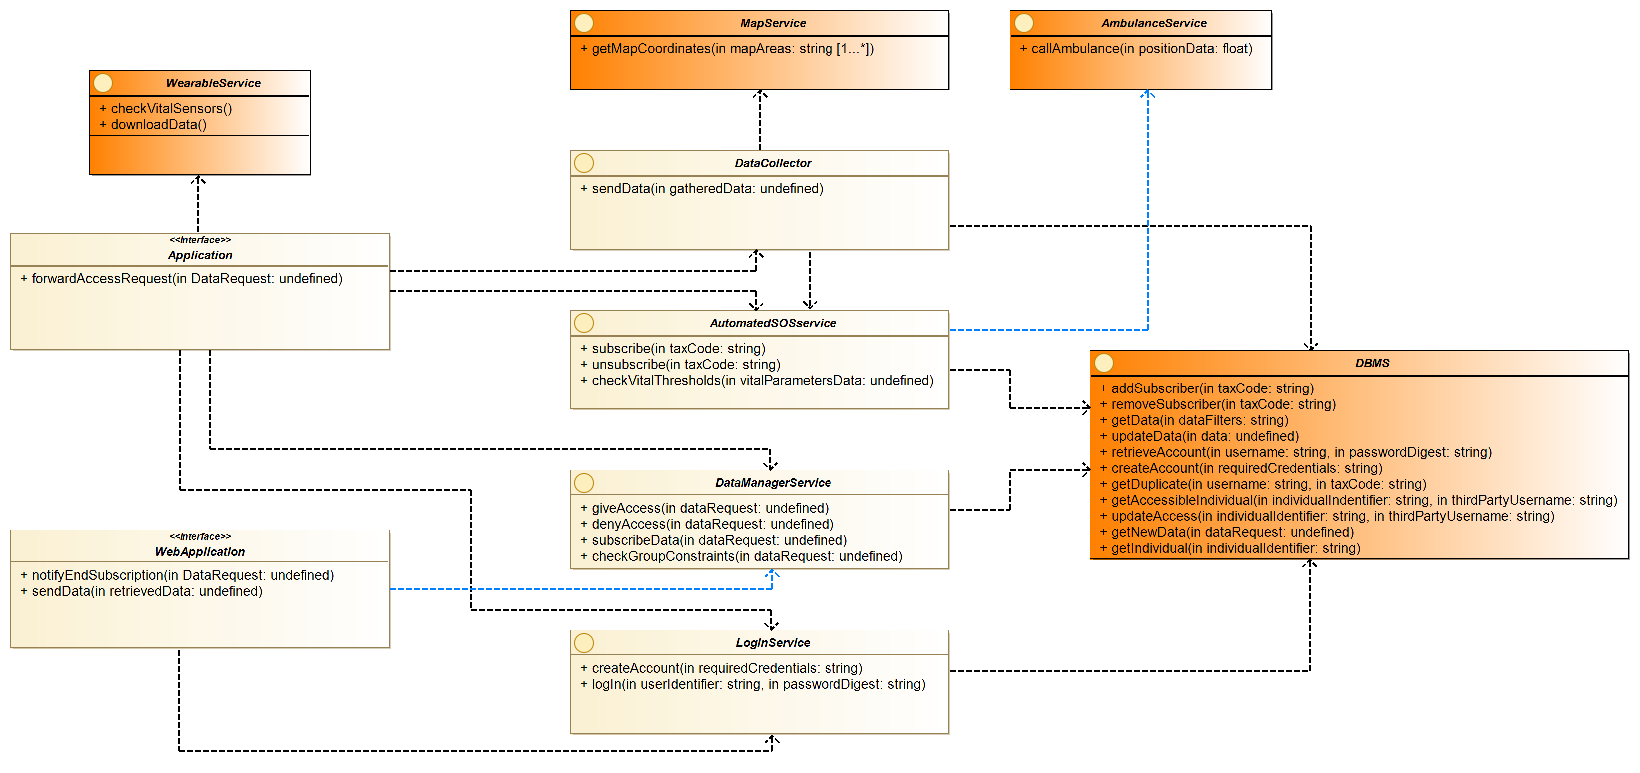
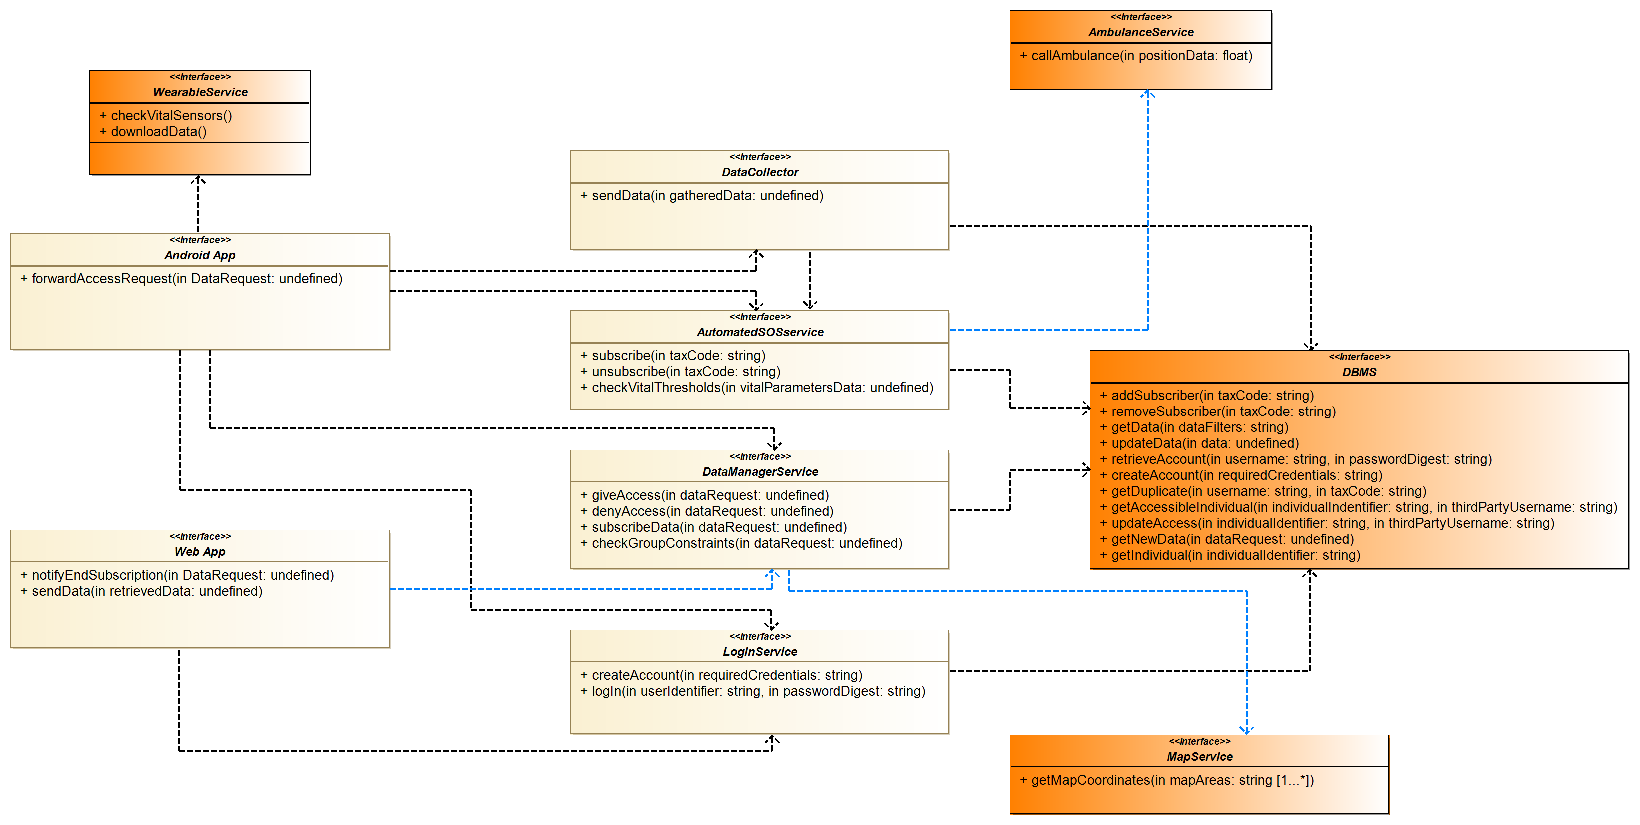
filled effort table, fix in interface diag

diff --git a/RASD/references.tex b/RASD/references.tex
@@ -3,4 +3,7 @@
 \begin{itemize}
 \item Specification document "Mandatory Project Assignment AY 2018-2019.pdf"
 \item ISO/IEC/IEEE 29148 - Standard on requirement engineering
+\item WearOS by Google: https://wearos.google.com/#hands-free-help
+\item tool for building mockups: https://www.justinmind.com/
+\item tool for uml diagrams: https://www.modelio.org/
 \end{itemize}

diff --git a/DD/references.tex b/DD/references.tex
@@ -3,4 +3,6 @@
 \begin{itemize}
 \item Specification document ”Mandatory Project Assignment AY 2018-2019.pdf”
 \item Requirements analysis and specification document, version 1.1 "RASD2.pdf"
+\item Material design by Google: https://material.io/design/
+\item tool for uml diagrams: https://www.modelio.org/
 \end{itemize}
